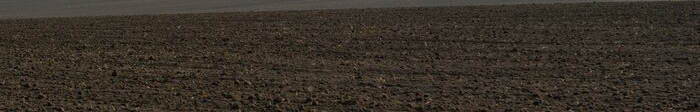
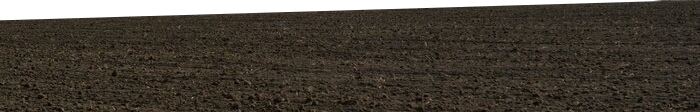
fhg

Changed region(s): [[0.0, 0.0, 0.96, 0.1875]]

diff --git a/Balistic Tank Game/MainWindow.xaml b/Balistic Tank Game/MainWindow.xaml
@@ -5,7 +5,7 @@
         xmlns:mc="http://schemas.openxmlformats.org/markup-compatibility/2006"
         xmlns:local="clr-namespace:Balistic_Tank_Game"
         mc:Ignorable="d"
-        Title="MainWindow" Height="900" Width="1600" Background="#FF1A1A1A" Foreground="{x:Null}" Loaded="Window_Loaded" WindowState="Maximized">
+        Title="MainWindow" Height="900" Width="1600" Background="#FF131313" Foreground="{x:Null}" Loaded="Window_Loaded" WindowState="Maximized">
     <Grid>
         <Grid.ColumnDefinitions>
             <ColumnDefinition Width="1*"/>

diff --git a/Balistic Tank Game/MainWindow.xaml.cs b/Balistic Tank Game/MainWindow.xaml.cs
@@ -113,6 +113,18 @@ namespace Balistic_Tank_Game
             main_dis.Children.Add(temp2g);
             Canvas.SetRight(temp2g, main_dis.ActualWidth * (main_game.player_2.position/2 + 0.075));
             Canvas.SetBottom(temp2g, (main_dis.ActualHeight * 0.41));
+
+            var tempfrg = new Image()
+            {
+                Height = main_dis.ActualHeight*0.35,
+                Width = main_dis.ActualWidth*1,
+                Source = new BitmapImage(new Uri("Media/foreground.png", UriKind.Relative)),
+                Stretch = Stretch.Fill
+            };
+            Canvas.SetBottom(tempfrg, 0);
+            Canvas.SetLeft(tempfrg, 0);
+            main_dis.Children.Add(tempfrg);
+
         }
 
         private Image prerender_tank(Tank tank)
